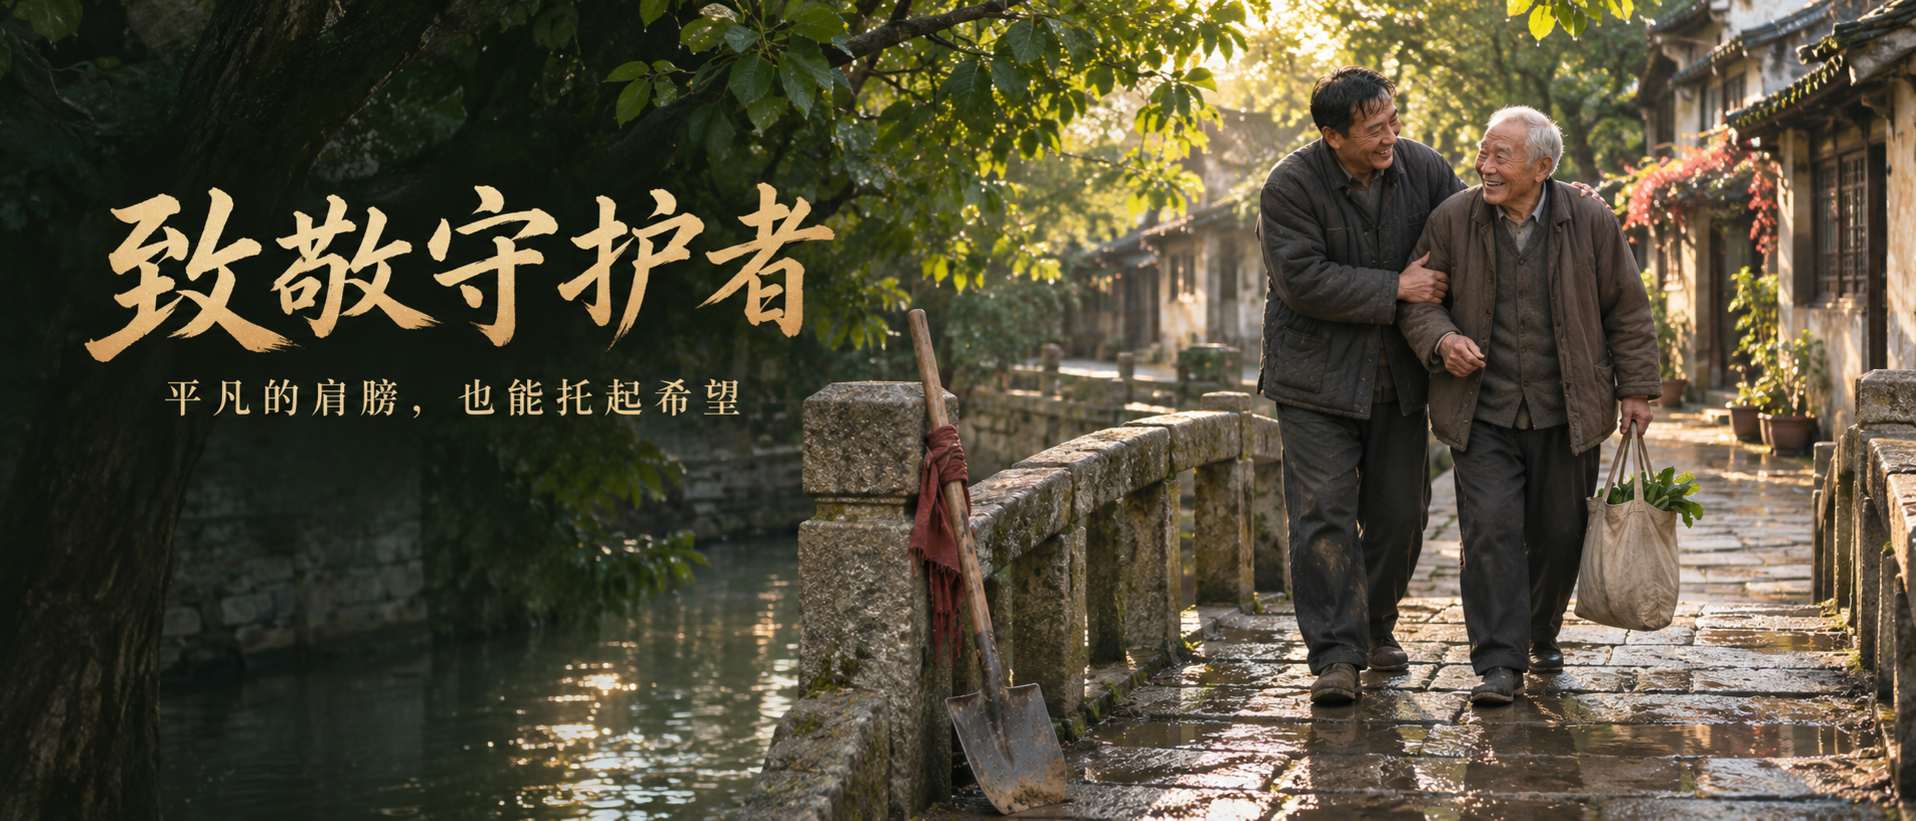
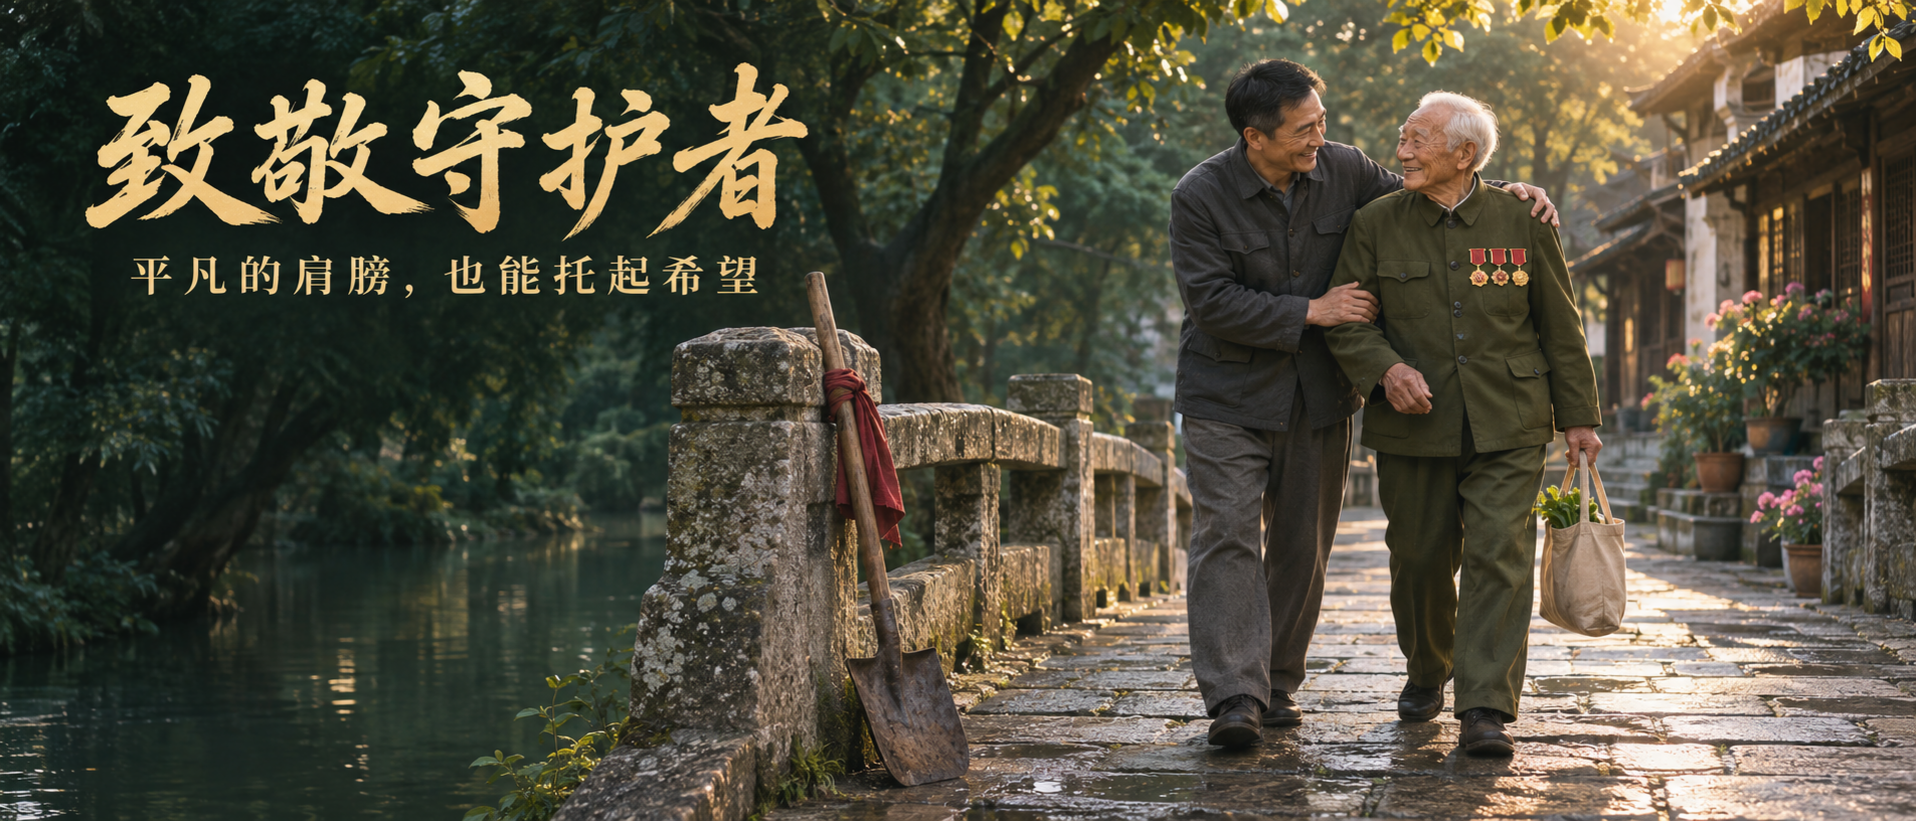
art: redraw guardian ending card with decorated veteran

diff --git a/字幕卡/片尾/正能量片尾/README.md b/字幕卡/片尾/正能量片尾/README.md
@@ -7,7 +7,7 @@
 3. 不负青春：把先辈的嘱托，写进今天的努力。
 4. 珍爱和平：山河无恙，岁月安宁。
 
-图片02中的扶老场景、图片03的图书馆和图片04的和平街景属于片尾象征性延展，不是原剧本里新增的王根生生还情节。人物、旧物与晨光用于呼应短剧主题。
+图片02现为身穿军装、胸佩勋章的白发退伍老兵受到搀扶的全新绘制画面。图片02中的敬老场景、图片03的图书馆和图片04的和平街景属于片尾象征性延展，不是原剧本里新增的王根生生还情节。人物、旧物与晨光用于呼应短剧主题。
 
 可选其中一张使用，或按01至04依次展示。原有片尾字幕卡保留。原脚本592秒正片与8秒片尾合计600秒；如新增展示时长，需重新分配片尾时间或调整总片长。
 
